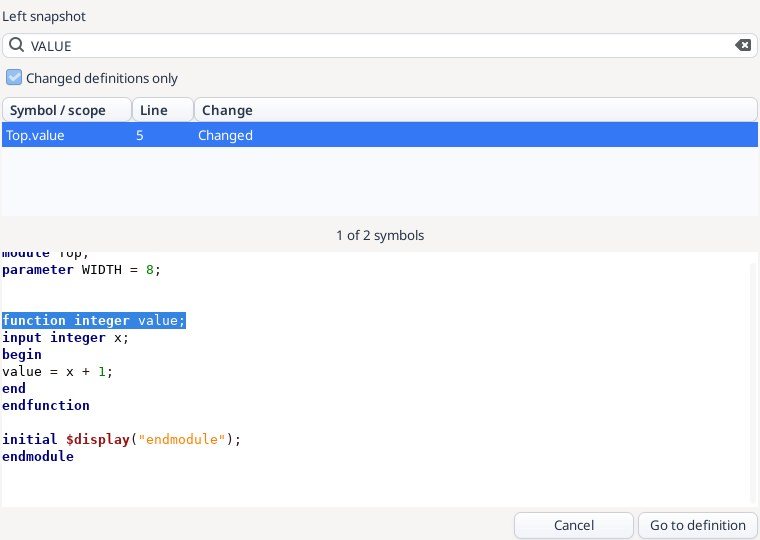
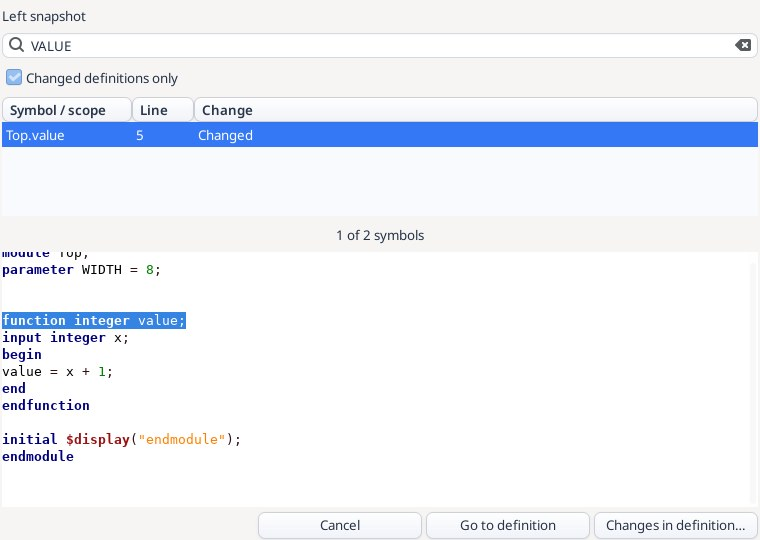
Document verified per-definition change review with paired snapshot captures

Changed region(s): [[0.6053, 0.9481, 0.9684, 1.0], [0.4237, 0.9481, 0.4842, 1.0], [0.5447, 0.9778, 0.575, 1.0]]

diff --git a/insight/tests/directory_compare_native_gui_test.c b/insight/tests/directory_compare_native_gui_test.c
@@ -36,8 +36,8 @@ static gboolean save_selected_result(gpointer data) {
 static gboolean choose_search_match(gpointer data) {
  (void)data;GtkWidget *dialog=window_named("insight-diff-search-results");g_assert_nonnull(dialog);GtkWidget *tree=named(dialog,"insight-diff-search-results-list");g_assert_cmpint(gtk_tree_model_iter_n_children(gtk_tree_view_get_model(GTK_TREE_VIEW(tree)),NULL),==,1);gtk_entry_set_text(GTK_ENTRY(named(dialog,"insight-diff-search-filter")),"8080");gtk_button_clicked(GTK_BUTTON(named(dialog,"insight-diff-search-copy")));gchar *text=gtk_clipboard_wait_for_text(gtk_clipboard_get(GDK_SELECTION_CLIPBOARD)),*path=g_build_filename(right,"config.ini",NULL),*expected=g_strdup_printf("File\tLine\tColumn\tText\n%s\t1\t1\tport = 8080\n",path);g_assert_cmpstr(text,==,expected);g_free(text);g_free(path);g_free(expected);GtkTreePath *row=gtk_tree_path_new_first();gtk_tree_view_set_cursor(GTK_TREE_VIEW(tree),row,NULL,FALSE);gtk_tree_path_free(row);gtk_toggle_button_set_active(GTK_TOGGLE_BUTTON(named(dialog,"insight-diff-search-field-2")),FALSE);gtk_dialog_response(GTK_DIALOG(dialog),GTK_RESPONSE_YES);return G_SOURCE_REMOVE;
 }
-/* EN: Advance the production directory/file comparison fixture from unused data; explicitly enable merge before Result edits.
- * RU: Продвигает проверку сравнения каталогов/файлов из неиспользуемого data; явно включает сведение перед правками Result. */
+/* EN: Advance the production directory/file comparison fixture from unused data; explicitly enable merge before Result edits; return whether to continue.
+ * RU: Продвигает проверку сравнения каталогов/файлов из неиспользуемого data; явно включает сведение перед правками Result; возвращает признак продолжения. */
 static gboolean step(gpointer data)
 {
     (void)data;

diff --git a/insight/tests/file_compare_gui_test.c b/insight/tests/file_compare_gui_test.c
@@ -119,8 +119,8 @@ static void capture(GtkWidget *window, const gchar *variable)
     g_object_unref(pixels);
 }
 
-/* EN: Capture the scoped change dialog after painting and verify paired Verilog snapshots before accepting.
- * RU: Снимает диалог изменений после отрисовки и проверяет два снимка Verilog перед подтверждением. */
+/* EN: Capture the scoped change dialog after painting and verify paired Verilog snapshots before accepting; return REMOVE.
+ * RU: Снимает диалог изменений после отрисовки и проверяет два снимка Verilog перед подтверждением; возвращает REMOVE. */
 static gboolean capture_scope(gpointer data)
 {
     (void)data;
@@ -144,8 +144,8 @@ static gboolean capture_scope(gpointer data)
     return G_SOURCE_REMOVE;
 }
 
-/* EN: Capture the retained dialog in data after its filtered list and preview have painted, then accept it.
- * RU: Снимает сохранённый dialog из data после отрисовки фильтра и предпросмотра, затем подтверждает выбор. */
+/* EN: Capture the retained dialog in data after painting and request its scope review; return REMOVE.
+ * RU: Снимает сохранённый dialog из data после отрисовки и запрашивает изменения определения; возвращает REMOVE. */
 static gboolean capture_symbols(gpointer data)
 {
     GtkWidget *dialog = data;

diff --git a/insight/docs/en/internal-diff.md b/insight/docs/en/internal-diff.md
@@ -383,3 +383,7 @@ Real Linux editor dialog in an isolated GUI fixture: filtered changed Verilog de
 Select a definition in the symbol browser and choose **Changes in definition…**, enabled for changed ranges. In a source pane, **Ctrl+Shift+D** or the context-menu action opens changes for the smallest unambiguous indexed definition at the caret. The list includes only blocks intersecting that definition in the selected version; insertions after its end are excluded. A block crossing the definition boundary is shown in full.
 
 The dialog shows original comparison block numbers, both source line numbers and two independent syntax-highlighted snapshot previews. **Previous/Next change**, F3 and Shift+F3 step without closing the dialog and stop at the endpoints. **Copy change** copies the selected block's old and new text. Enter or double-click selects that block in the main comparison and retains the prior source position in back/forward history. Cancellation, preview and copying leave the main selection, files and Result unchanged. Stale acceptance is rejected.
+
+![Changes in one definition](../media/file-compare-scope.jpg)
+
+Real Linux editor window in an isolated GUI fixture: one changed Verilog function block, both source line numbers and persistent old/new text highlighting.

diff --git a/insight/docs/internal-diff.md b/insight/docs/internal-diff.md
@@ -383,3 +383,7 @@ Real Linux editor dialog in an isolated GUI fixture: filtered changed Verilog de
 Select a definition in the symbol browser and choose **Changes in definition…**, enabled for changed ranges. In a source pane, **Ctrl+Shift+D** or the context-menu action opens changes for the smallest unambiguous indexed definition at the caret. The list includes only blocks intersecting that definition in the selected version; insertions after its end are excluded. A block crossing the definition boundary is shown in full.
 
 The dialog shows original comparison block numbers, both source line numbers and two independent syntax-highlighted snapshot previews. **Previous/Next change**, F3 and Shift+F3 step without closing the dialog and stop at the endpoints. **Copy change** copies the selected block's old and new text. Enter or double-click selects that block in the main comparison and retains the prior source position in back/forward history. Cancellation, preview and copying leave the main selection, files and Result unchanged. Stale acceptance is rejected.
+
+![Changes in one definition](media/file-compare-scope.jpg)
+
+Real Linux editor window in an isolated GUI fixture: one changed Verilog function block, both source line numbers and persistent old/new text highlighting.
